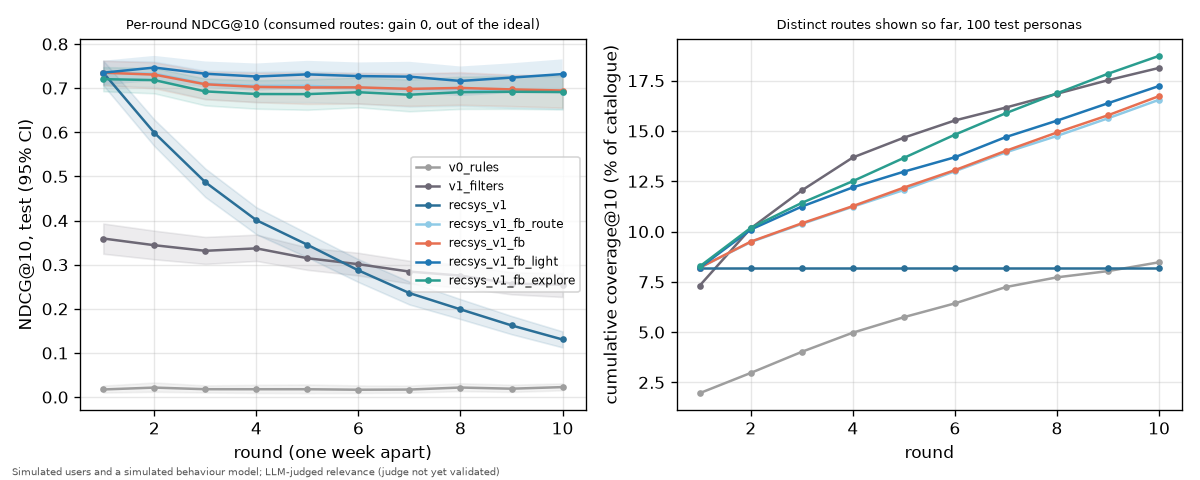
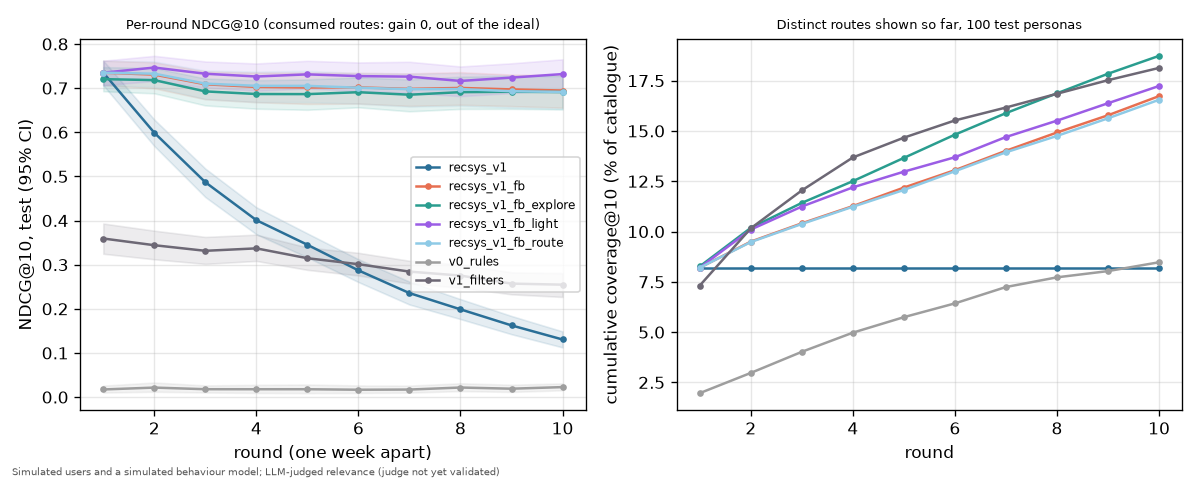
Convergence figure: own colour for recsys_v1_fb_light

diff --git a/backend/evalkit/simulate.py b/backend/evalkit/simulate.py
@@ -496,7 +496,8 @@ def figure(doc: dict[str, Any]) -> None:
     import matplotlib.pyplot as plt
 
     colours = {"v0_rules": "#9e9e9e", "v1_filters": "#6d6875", "recsys_v1": "#2a6f97",
-               "recsys_v1_fb_route": "#8ecae6", "recsys_v1_fb": "#e76f51", "recsys_v1_fb_explore": "#2a9d8f"}
+               "recsys_v1_fb_route": "#8ecae6", "recsys_v1_fb": "#e76f51", "recsys_v1_fb_light": "#9b5de5",
+               "recsys_v1_fb_explore": "#2a9d8f"}
     fig, axes = plt.subplots(1, 2, figsize=(10, 4), dpi=120)
     ax = axes[0]
     for lab, m in doc["metrics"].items():
